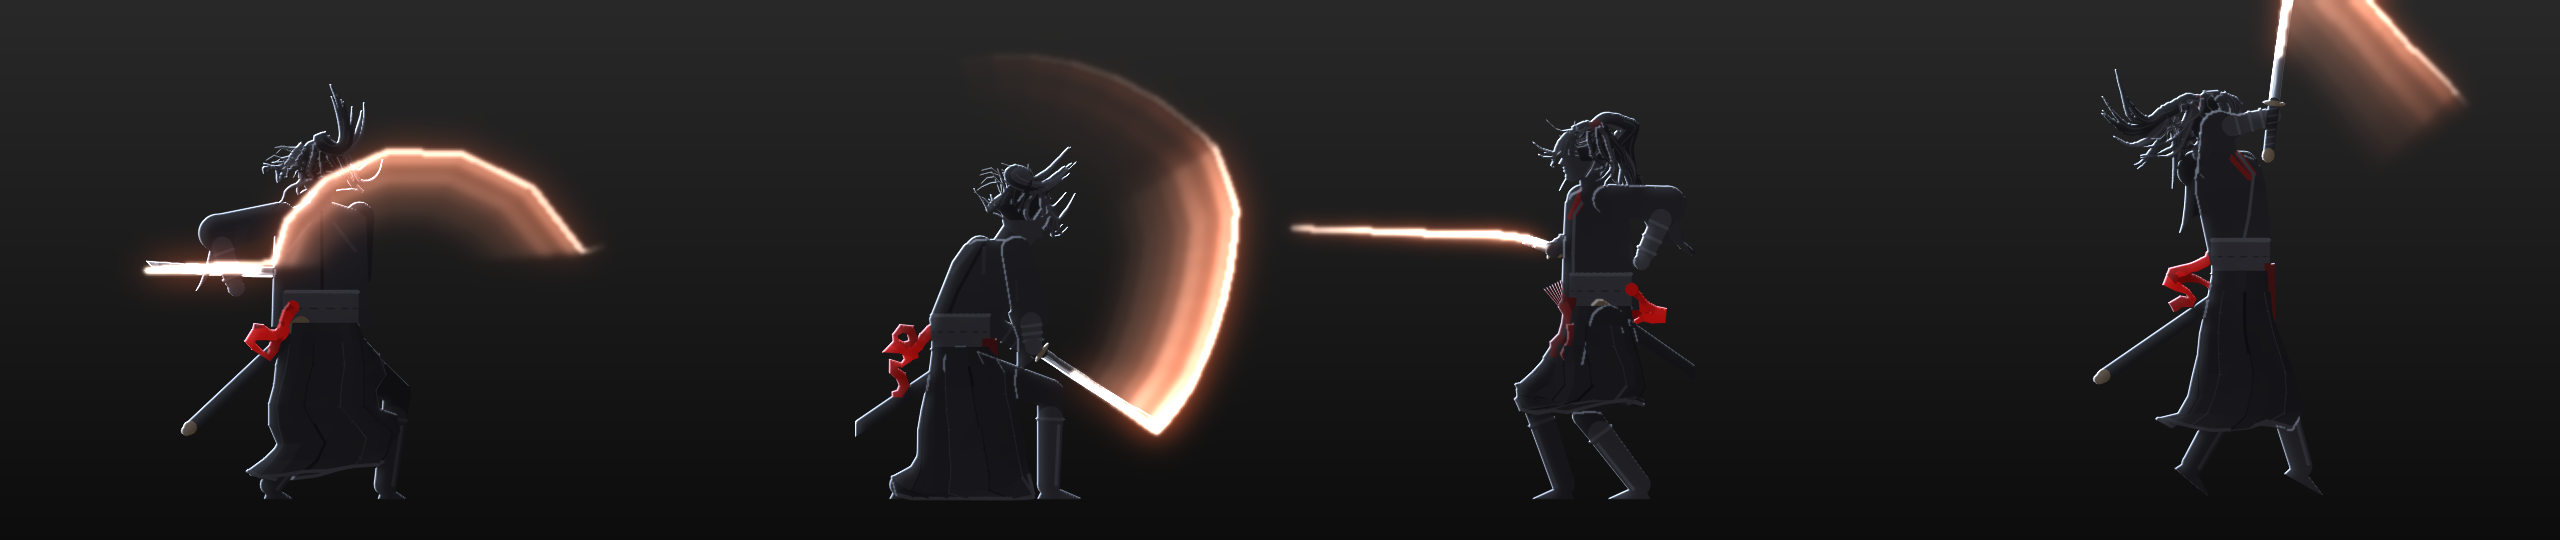
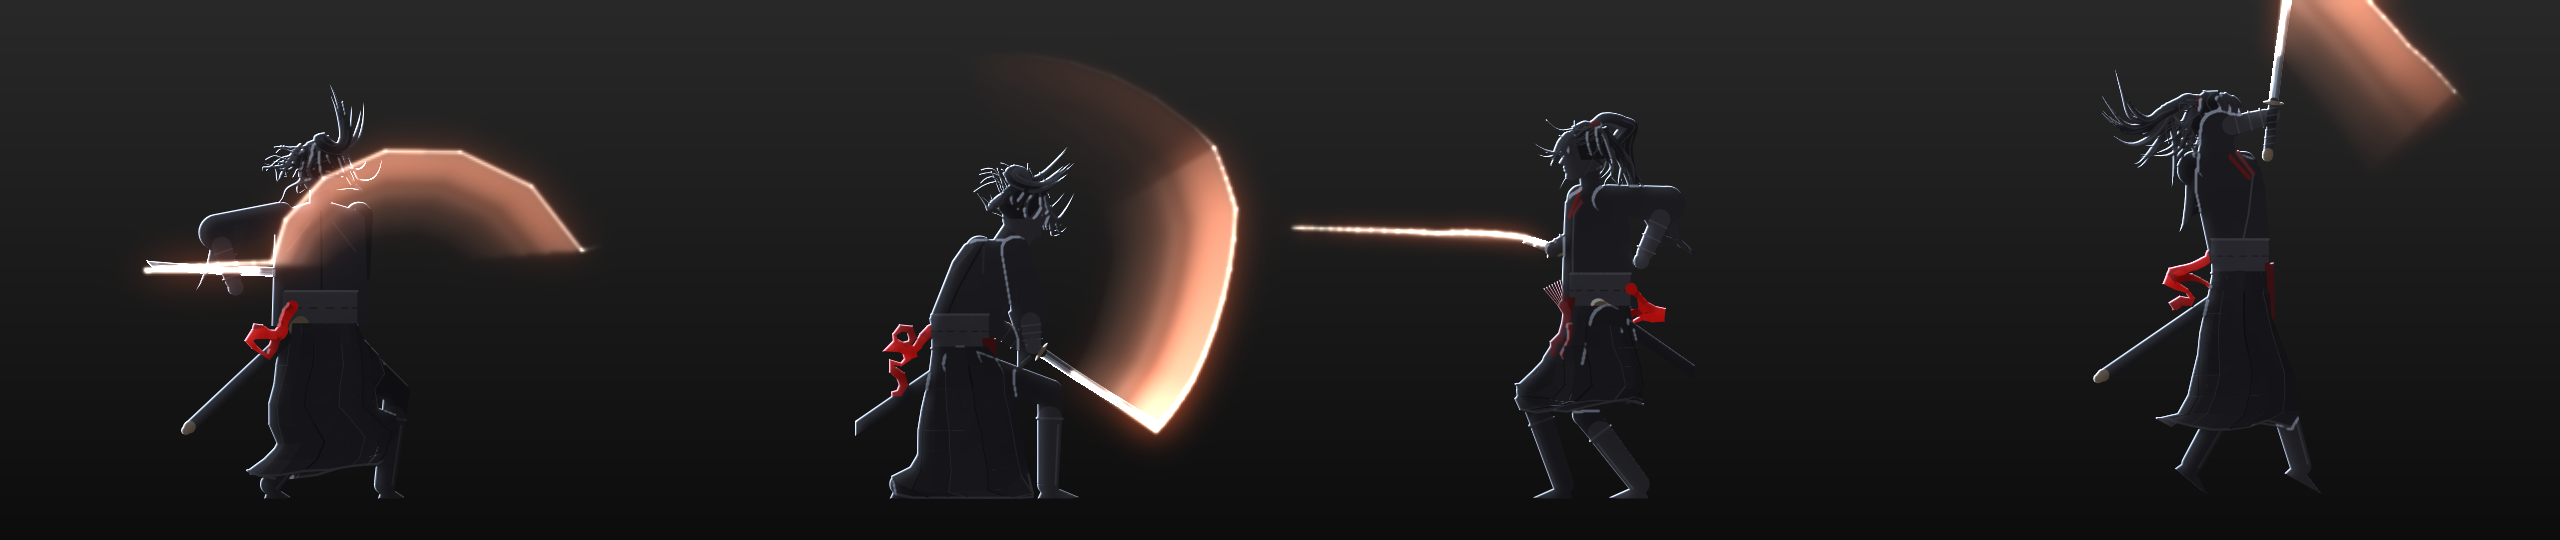
角色组: 绘制层换 Skia 矢量（sk.SkCanvas，rig 全部形状经 skia 路径；刀光改三角网格渐变；内轮廓光去台阶）+ cv/skia 前后对比图

diff --git a/lib/sk.py b/lib/sk.py
@@ -159,6 +159,7 @@ class SkCanvas:
         self._pg = skia.Paint(AntiAlias=True); self._pg.setBlendMode(skia.BlendMode.kSrc)
         self._pd = skia.Paint(AntiAlias=False); self._pd.setBlendMode(skia.BlendMode.kSrc)
         self.dcur = 0.0
+        self._g_used = False
 
     # ---- 解码视图（兼容旧代码读取）
     @property
@@ -186,10 +187,11 @@ class SkCanvas:
             p.setStyle(skia.Paint.kFill_Style)
         if a < 0.999: p.setAlphaf(a)
         self._cB.drawPath(P, p)
-        g = self._pg; g.setStyle(p.getStyle()); g.setStrokeWidth(p.getStrokeWidth()); g.setStrokeCap(skia.Paint.kRound_Cap)
-        g.setColor(skia.Color(0, 0, 0, int(gold)))
-        if a < 0.999: g.setAlphaf(g.getAlphaf())          # 细线淡化只作用于形状通道
-        self._cG.drawPath(P, g)
+        if gold or self._g_used:                          # 还没画过金饰时，写 0 是空操作 → 跳过
+            self._g_used = self._g_used or bool(gold)
+            g = self._pg; g.setStyle(p.getStyle()); g.setStrokeWidth(p.getStrokeWidth()); g.setStrokeCap(skia.Paint.kRound_Cap)
+            g.setColor(skia.Color(0, 0, 0, int(gold)))
+            self._cG.drawPath(P, g)
         if depth and not stroke:
             q = int(np.clip((self.dcur + 2048.0) * _DQ, 0, 2 ** 24 - 1))
             self._pd.setColor(skia.Color((q >> 16) & 255, (q >> 8) & 255, q & 255, 255))
@@ -250,6 +252,7 @@ class SkCanvas:
         if target == 'C':
             self._draw(P, val, 0, stroke=stroke, depth=depth); return
         if target == 'G':
+            self._g_used = self._g_used or bool(val)
             g = skia.Paint(self._pg); g.setColor(skia.Color(0, 0, 0, int(val)))
             if stroke: g.setStyle(skia.Paint.kStroke_Style); g.setStrokeWidth(float(stroke)); g.setStrokeCap(skia.Paint.kRound_Cap)
             self._cG.drawPath(P, g); return
